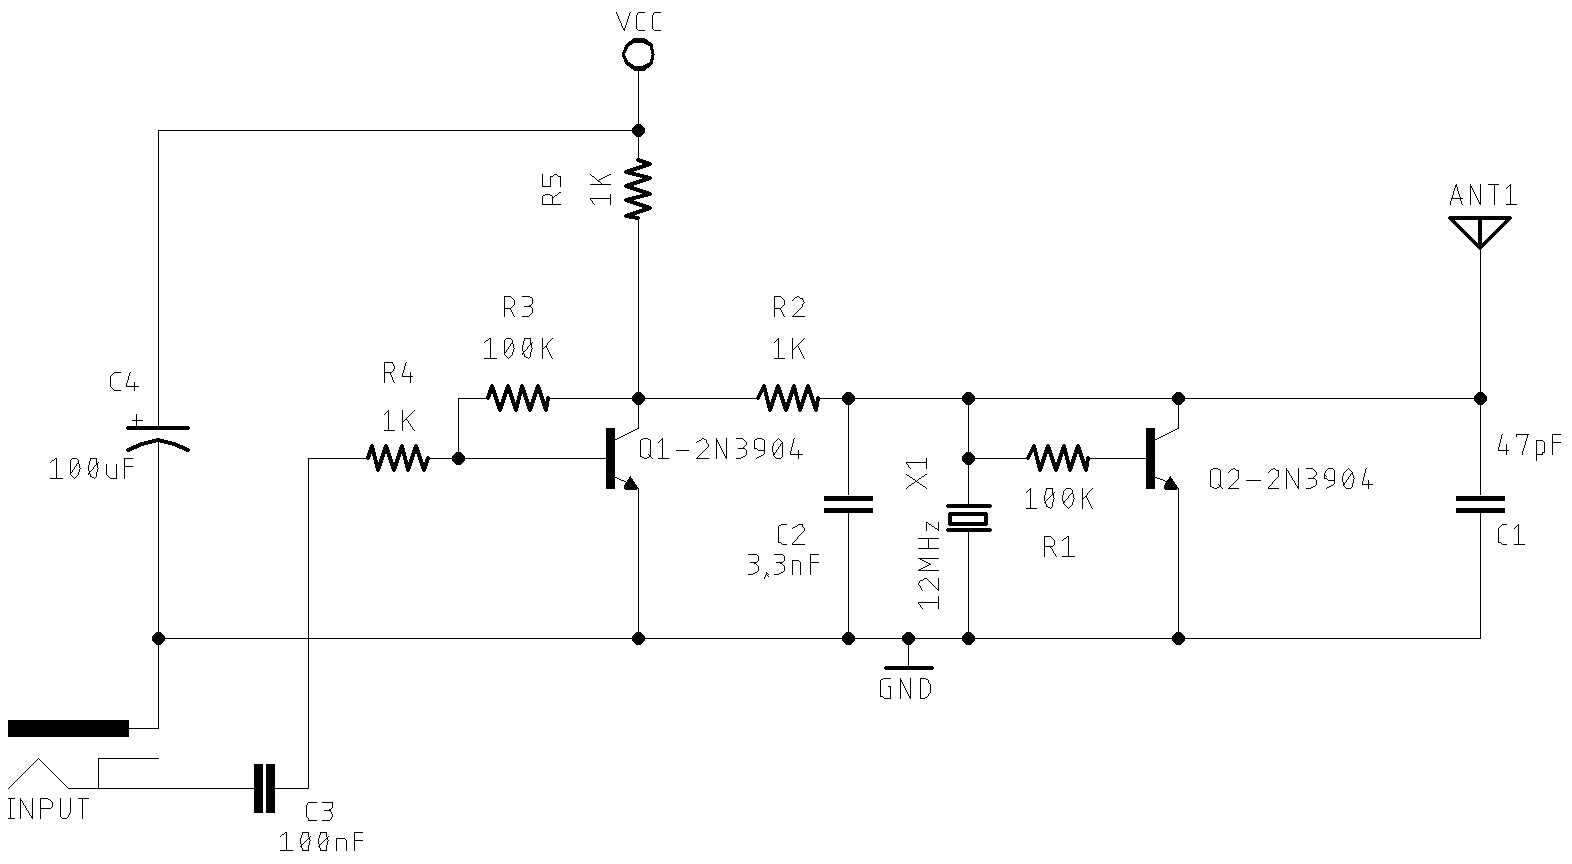
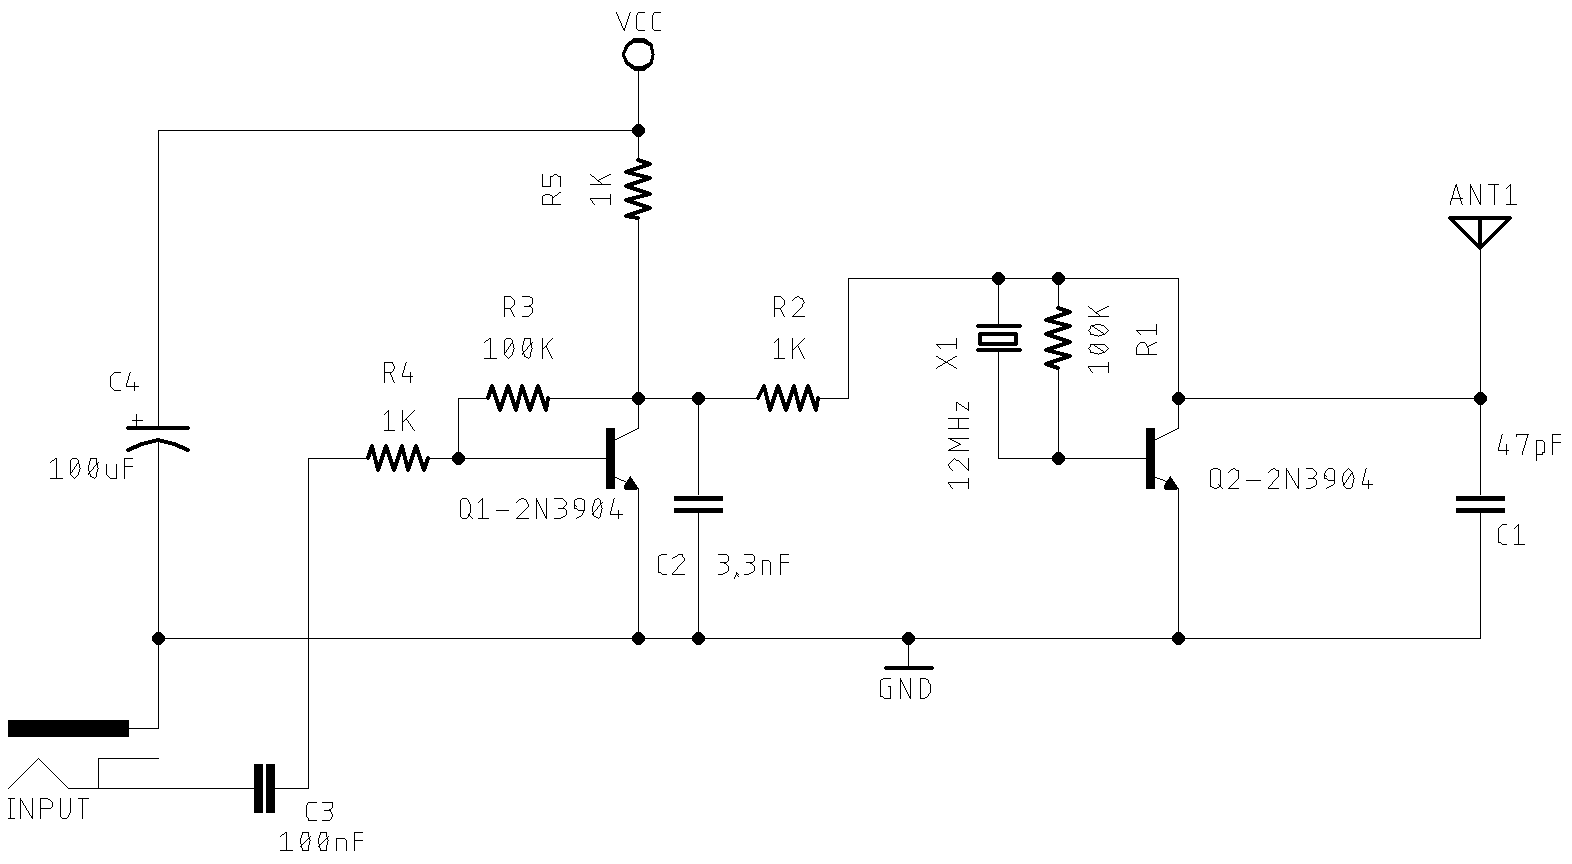
Arduino SW transmitter

diff --git a/README.md b/README.md
@@ -34,5 +34,24 @@ The list below shows the Arduino Libraries I have developed to control DSP recei
 
 ## Schematic 
 
+The schematic below is based on [Stefan0719](https://youtu.be/7fe_GlJI5WI) and can be used with crystal oscillator. Use it if you want to work with a static frequency (8MHz, 12MHz, 13.56MHz etc).
+
+![Crystal Sortwave transmitter - Basic Schematic](extras/images/schematic_transmitter_crystal.png)
 
 
+If you intend to work with ramdom frequencies between 3 and 30 MHz, use the following circuit.
+
+
+![SI5351 Sortwave transmitter - Basic Schematic](extras/images/schematic_transmitter_crystal.png)
+
+
+The sketch for the circuit above can be found [here](source)
+
+
+## References
+
+1. [Original Project Schematic](https://drive.google.com/file/d/1N3GuQzIK2YmYvO7QV10ZkjJ2dLMs-szc/view)
+2. [Simple shortwave transmitter](https://youtu.be/7fe_GlJI5WI)
+3. [DIY Simple Short Wave Transmitter With XTAL Oscillator Steady Frequency](https://youtu.be/4UGzL5FCcMM)
+4. [13.56Mhz shortwave transmitter](https://youtu.be/VYizasHR564)
+5. 
